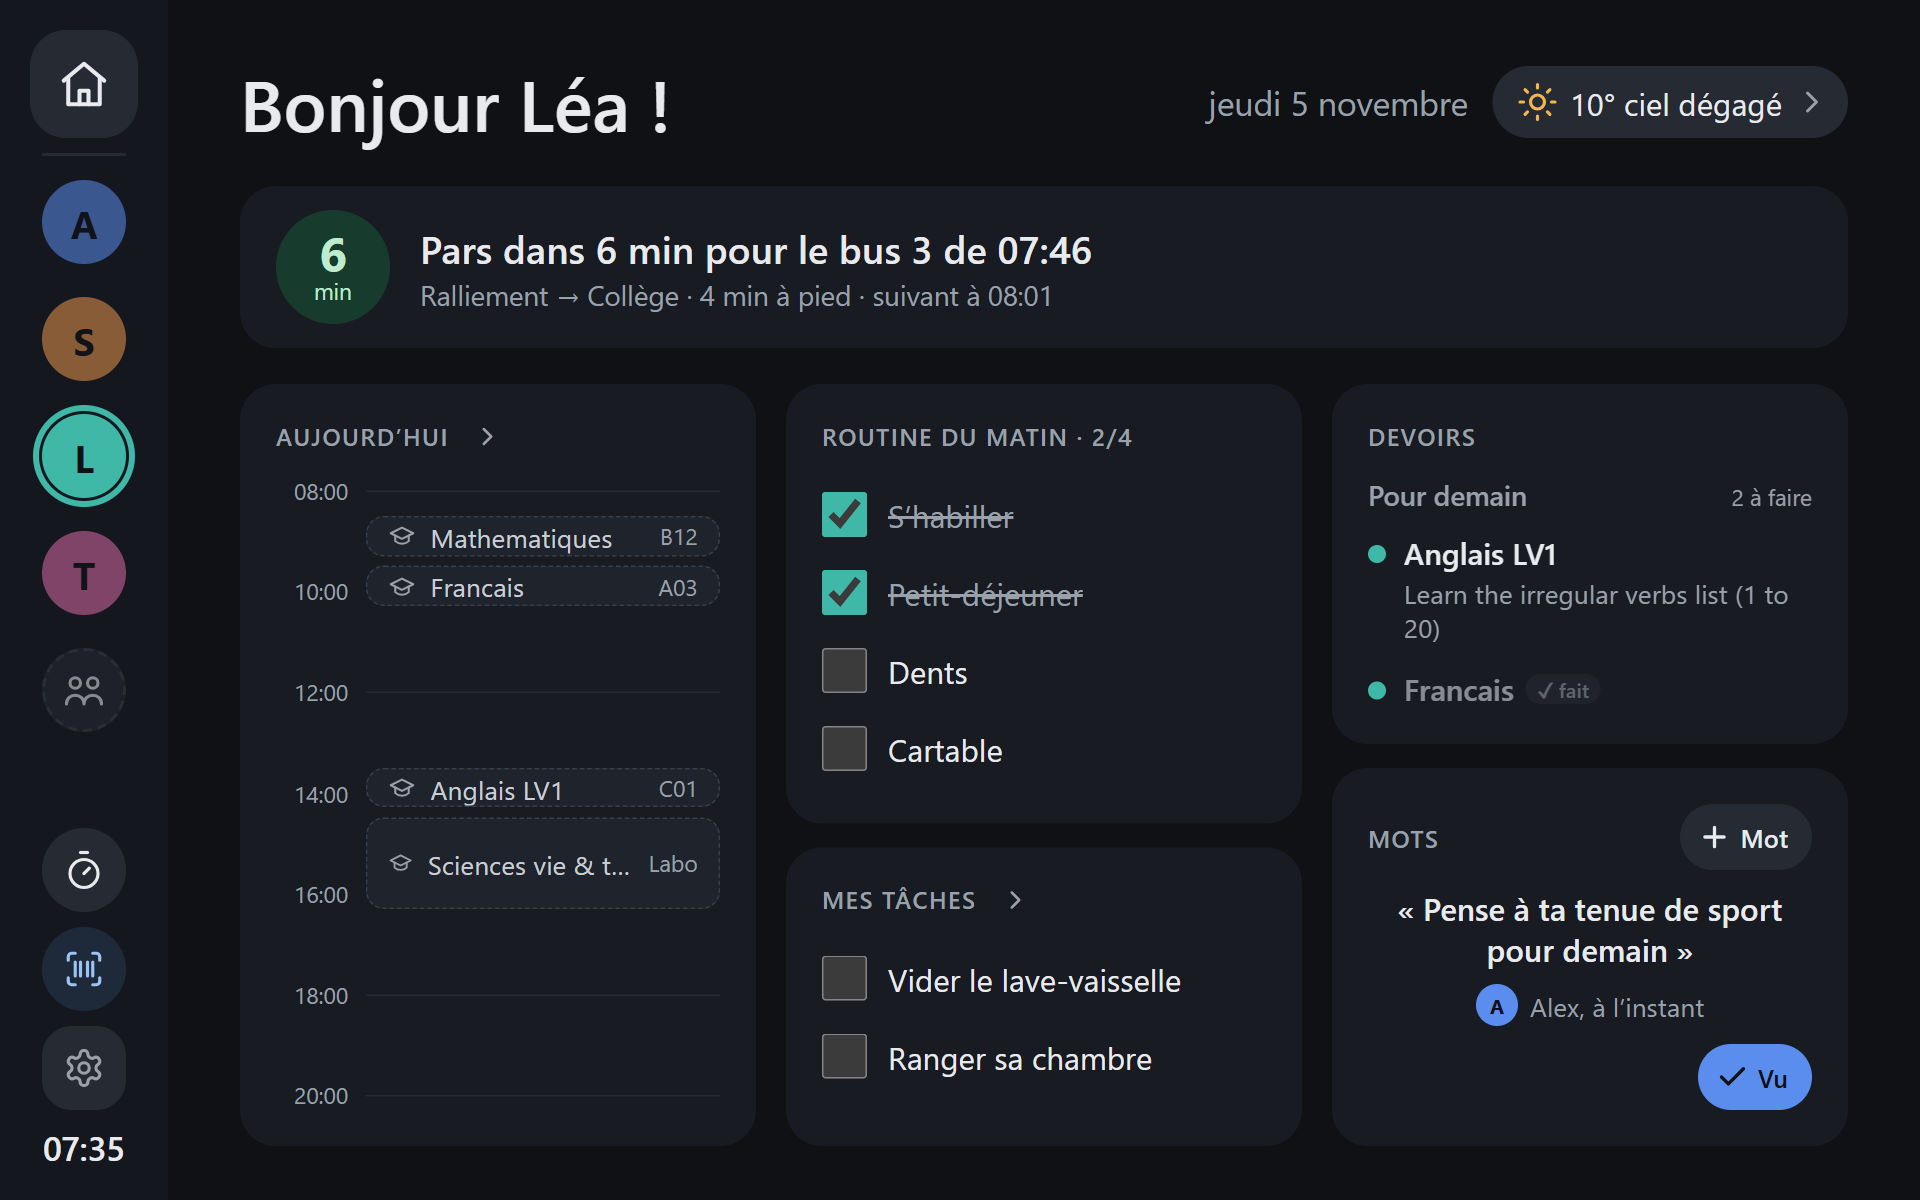
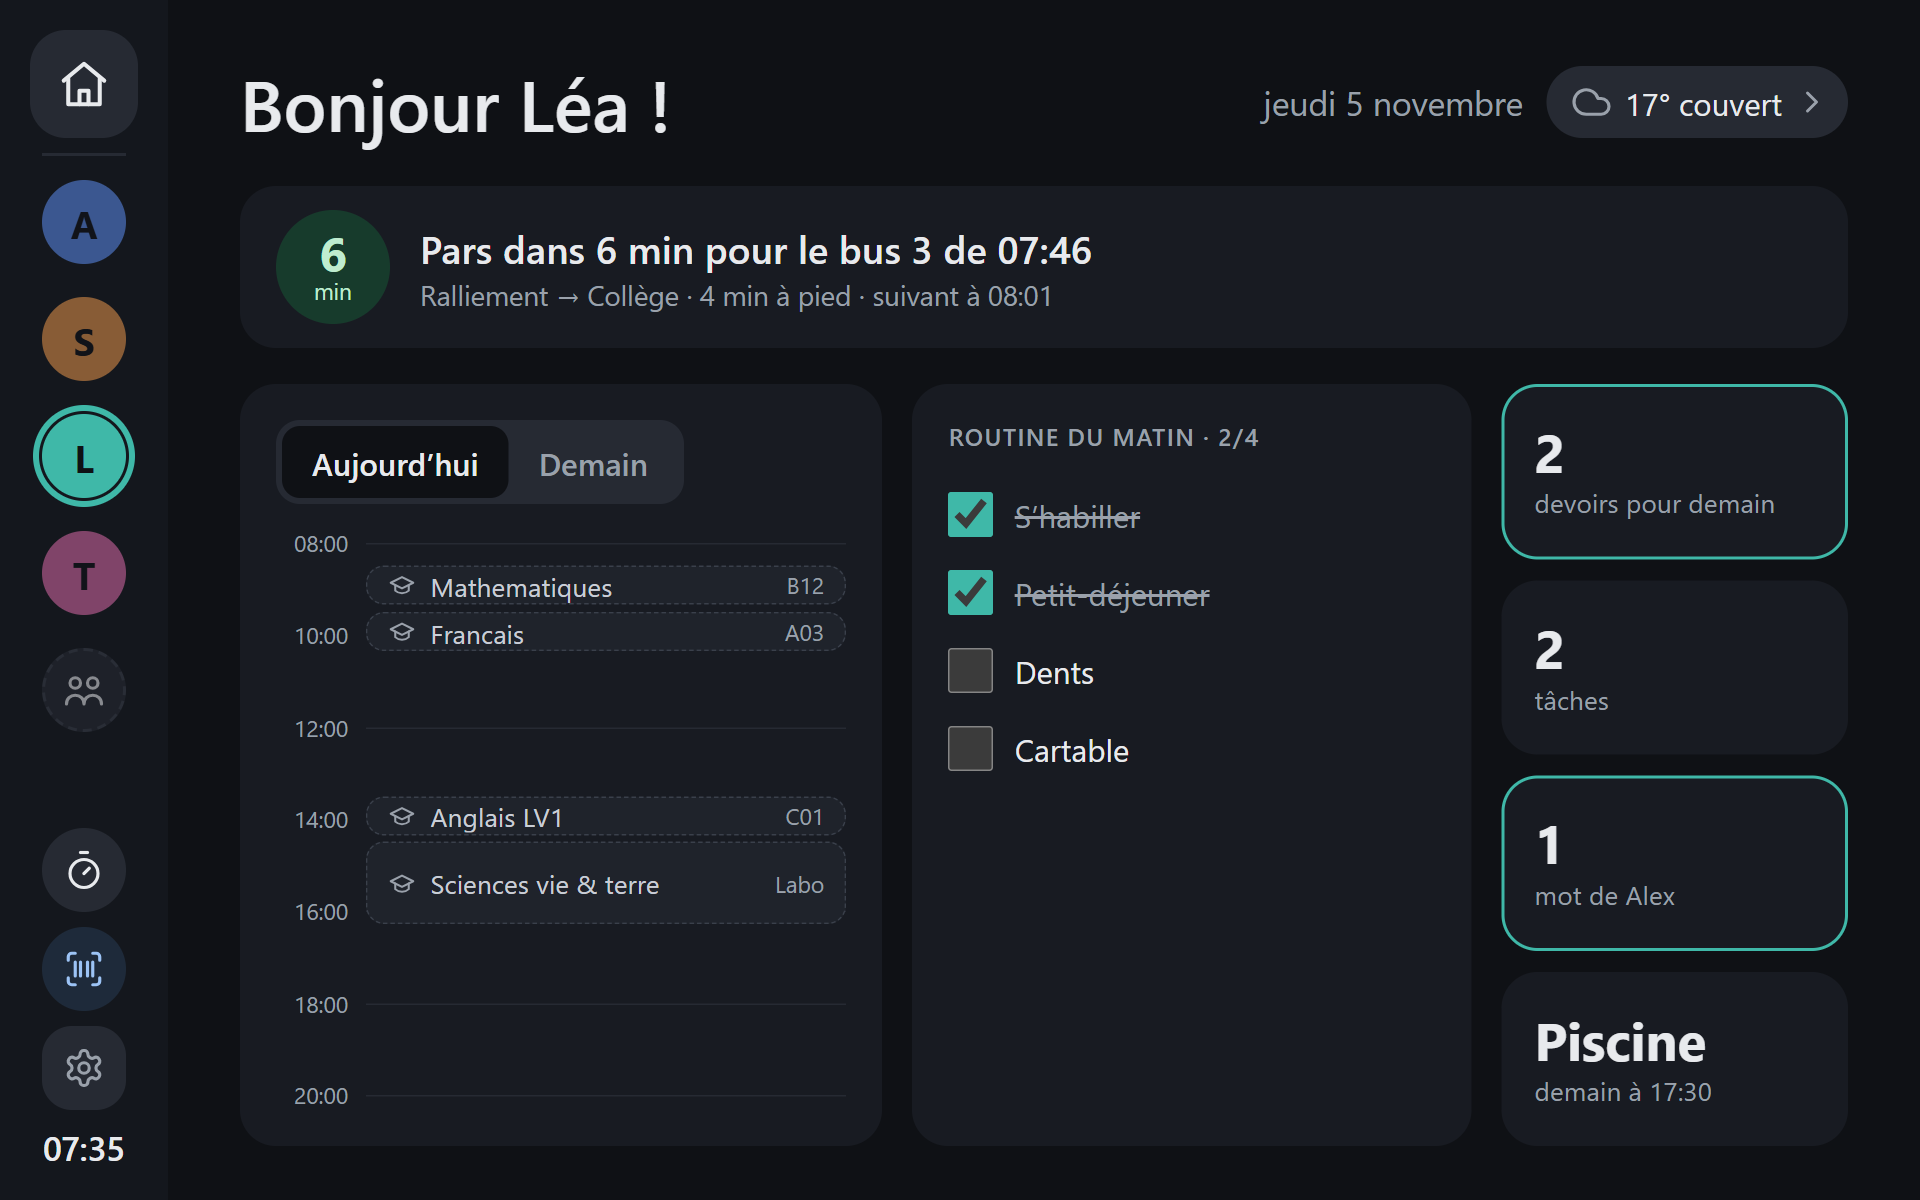
Dashboard élève : le focus seul, fin de l'essai
Décision de l'utilisateur : le dashboard « focus » devient le seul dashboard
d'un élève (profil avec emploi du temps), le classique est retiré.

- Dashboard.svelte : la variante classique (trois colonnes, frise du jour
  puis de demain à 18 h) et ses styles (.column, .fit, .fill) retirés.
- layout.svelte.ts (choix gardé par l'appareil) et l'entrée « Dashboard
  élève » de la roue dentée retirés. Une valeur déjà enregistrée sur la
  tablette n'est plus lue.
- Devenus morts avec le classique : eventsAfter (day.ts) et son test,
  l'option `compact` de NoteCard, `title` et `allDayRows` de DayTimeline
  (une seule frise : rien à aligner, l'en-tête remplace toujours le titre).
- Les dashboards des parents et de la famille ne changent pas.
- README, docs/design.md, docs/ecrans.md et la capture tablette-dashboard
  à jour.

diff --git a/web/src/screens/Dashboard.svelte b/web/src/screens/Dashboard.svelte
@@ -7,24 +7,19 @@
   import DetailLink from '../components/DetailLink.svelte';
   import FocusDashboard from '../components/FocusDashboard.svelte';
   import CommuteCard from '../components/widgets/CommuteCard.svelte';
-  import DayTimeline from '../components/widgets/DayTimeline.svelte';
   import HomeworkCard from '../components/widgets/HomeworkCard.svelte';
   import NextEventBanner from '../components/widgets/NextEventBanner.svelte';
   import NoteCard from '../components/widgets/NoteCard.svelte';
   import TaskList from '../components/widgets/TaskList.svelte';
   import UpcomingList from '../components/widgets/UpcomingList.svelte';
   import { getAppContext } from '../lib/context.ts';
-  import { addDays, dayPlan, eventsAfter, timelineHours } from '../lib/day.ts';
   import { formatLongDate, greeting } from '../lib/format.ts';
   import { createResource } from '../lib/resource.svelte.ts';
-  import { dashboardLayout } from '../lib/layout.svelte.ts';
   import { routineFooter, routineTitle } from '../lib/routine.ts';
   import { HOME_PATH } from '../lib/route.ts';
   import { formatTemperature, weatherIcon, weatherIconColor, weatherLabel } from '../lib/weather.ts';
 
   const DASHBOARD_REFRESH_MS = 60_000;
-  /** À partir de cette heure, la frise des élèves montre demain : la journée d'école est finie, on prépare le sac. */
-  const EVENING_HOUR = 18;
 
   // App.svelte recrée ce composant à chaque changement de profil ({#key}) : ownerId est fixe ici.
   type Props = { ownerId: string };
@@ -131,8 +126,8 @@
         {#if data.commute}
           <CommuteCard commute={data.commute} now={clock.now} />
         {/if}
-        {#if data.school && dashboardLayout.current === 'focus'}
-          <!-- Essai : dashboard « focus » (roue dentée › Dashboard élève). -->
+        {#if data.school}
+          <!-- Profil avec emploi du temps : dashboard « focus » (une frise, la carte du moment, le reste en tuiles). -->
           <FocusDashboard
             data={{ ...data, school: data.school }}
             {profile}
@@ -143,40 +138,6 @@
             onSeenNote={seeNote}
             onWriteNote={startNote}
           />
-        {:else if data.school}
-          <!-- Profil avec emploi du temps (piste A) : trois colonnes de hauteur fixe. La frise du jour (celle de demain
-               à partir de 18 h), la routine et les tâches, les devoirs et les mots. Chaque carte fait défiler son
-               contenu au lieu de pousser ses voisines. -->
-          {@const tomorrow = addDays(clock.now, 1)}
-          {@const evening = clock.now.getHours() >= EVENING_HOUR}
-          {@const shown = evening ? dayPlan(data.school.tomorrow, data.events, tomorrow) : dayPlan(data.school.today, data.events, clock.now)}
-          <div class="grid school">
-            <DayTimeline
-              title={evening ? 'Demain' : 'Aujourd’hui'}
-              day={evening ? tomorrow : clock.now}
-              plan={shown}
-              hours={timelineHours(shown.items)}
-              allDayRows={shown.allDay.length}
-              now={clock.now}
-              color={profile.color}
-            />
-            <div class="column">
-              {#if data.routine}
-                <div class="fit">{@render routine(data.routine)}</div>
-              {/if}
-              <div class="fill"><TaskList title="Mes tâches" tasks={data.tasks} color={profile.color} onToggle={toggleTask} /></div>
-            </div>
-            <div class="column">
-              <div class="fill">
-                {#if data.homework}
-                  <HomeworkCard homework={data.homework} now={clock.now} color={profile.color} />
-                {:else}
-                  <UpcomingList events={eventsAfter(data.events, tomorrow).slice(0, 4)} now={clock.now} />
-                {/if}
-              </div>
-              <div class="fit"><NoteCard notes={data.notes} {profiles} now={clock.now} compact onSeen={seeNote} onWrite={startNote} /></div>
-            </div>
-          </div>
         {:else}
           <NextEventBanner event={data.nextEvent} color={profile.color} now={clock.now} />
           <div class="grid">
@@ -266,36 +227,6 @@
     display: grid;
     grid-template-columns: repeat(3, minmax(0, 1fr));
     gap: 20px;
-  }
-
-  /* Colonnes de hauteur fixe : la carte « fit » prend sa hauteur, la carte « fill » le reste (160 px au moins) ;
-     quand la place manque, la carte « fit » rétrécit et fait défiler sa liste plutôt que de rogner sa voisine. */
-  .column {
-    min-height: 0;
-    display: flex;
-    flex-direction: column;
-    gap: var(--space-2);
-  }
-
-  .fit,
-  .fill {
-    display: flex;
-    flex-direction: column;
-    min-height: 0;
-  }
-
-  .fit {
-    flex: 0 1 auto;
-  }
-
-  .fill {
-    flex: 1 1 0;
-    min-height: 160px;
-  }
-
-  .fit > :global(.card),
-  .fill > :global(.card) {
-    flex: 1 1 auto;
   }
 
   .unknown {

diff --git a/web/src/components/widgets/DayTimeline.svelte b/web/src/components/widgets/DayTimeline.svelte
@@ -8,19 +8,16 @@
   import Icon from '../Icon.svelte';
 
   type Props = {
-    title: string;
     day: Date;
     plan: DayPlan;
-    /** Plage horaire, commune aux frises affichées côte à côte pour qu'elles s'alignent. */
+    /** Plage horaire de la frise. */
     hours: { startHour: number; endHour: number };
-    /** Lignes réservées aux événements sur la journée : les frises voisines restent alignées. */
-    allDayRows: number;
     now: Date;
     color: string;
-    /** En tête de carte, à la place du titre (bascule aujourd'hui / demain du dashboard focus). */
-    header?: Snippet;
+    /** En tête de carte, à la place d'un titre (bascule aujourd'hui / demain du dashboard). */
+    header: Snippet;
   };
-  let { title, day, plan, hours, allDayRows, now, color, header }: Props = $props();
+  let { day, plan, hours, now, color, header }: Props = $props();
 
   const accentBg = $derived(mix(color, '#0f1115', 0.3));
   const accentLight = $derived(mix(color, '#ffffff', 0.55));
@@ -37,9 +34,9 @@
   const nowVisible = $derived(isToday && now.getHours() >= hours.startHour && now.getHours() < hours.endHour);
 </script>
 
-<Card title={header ? undefined : title} link={{ to: 'week', label: 'Semaine détaillée' }}>
-  {#if header}{@render header()}{/if}
-  {#if allDayRows > 0}
+<Card link={{ to: 'week', label: 'Semaine détaillée' }}>
+  {@render header()}
+  {#if plan.allDay.length > 0}
     <ul class="all-day">
       {#each plan.allDay as event (event.id)}
         <li style:background={accentBg}>
@@ -47,9 +44,6 @@
           <span class="title">{event.title}</span>
           <span class="meta" style:color={accentLight}>{whenOnDay(event, day)}</span>
         </li>
-      {/each}
-      {#each { length: allDayRows - plan.allDay.length } as _, i (i)}
-        <li class="filler" aria-hidden="true"><Icon name="calendar" size={18} /><span>&nbsp;</span></li>
       {/each}
     </ul>
   {/if}
@@ -117,10 +111,6 @@
     padding: 8px 14px;
     border-radius: 12px;
     font-size: 1.1rem;
-  }
-
-  .filler {
-    visibility: hidden;
   }
 
   .timeline {

diff --git a/web/src/components/SettingsMenu.svelte b/web/src/components/SettingsMenu.svelte
@@ -1,7 +1,6 @@
 <script lang="ts">
   import { onDestroy } from 'svelte';
   import { getAppContext } from '../lib/context.ts';
-  import { dashboardLayout } from '../lib/layout.svelte.ts';
   import { createResource } from '../lib/resource.svelte.ts';
   import { type DetailName, detailPath } from '../lib/route.ts';
   import Icon from './Icon.svelte';
@@ -66,22 +65,6 @@
       <button type="button" role="menuitem" onclick={() => go('routines')}><Icon name="list" size={28} /> Routines</button>
       <button type="button" role="menuitem" onclick={() => go('transit')}><Icon name="bus" size={28} /> Transports</button>
       <button type="button" role="menuitem" onclick={() => go('nas')}><Icon name="server" size={28} /> État du NAS</button>
-      <!-- Essai du dashboard « focus » des élèves : bascule propre à cette tablette. -->
-      <button
-        type="button"
-        role="menuitemcheckbox"
-        aria-checked={dashboardLayout.current === 'focus'}
-        onclick={() => {
-          dashboardLayout.set(dashboardLayout.current === 'focus' ? 'classic' : 'focus');
-          position = null;
-        }}
-      >
-        <Icon name="school" size={28} />
-        <span class="choice">
-          Dashboard élève : {dashboardLayout.current === 'focus' ? 'focus' : 'classique'}
-          <span class="hint">toucher pour passer au {dashboardLayout.current === 'focus' ? 'classique' : 'focus'}</span>
-        </span>
-      </button>
       <div class="version">HomeHub v{__APP_VERSION__}</div>
     </div>
   {/if}
@@ -155,17 +138,6 @@
 
   .menu button:active {
     background: var(--border-strong);
-  }
-
-  .choice {
-    display: flex;
-    flex-direction: column;
-  }
-
-  .hint {
-    font-size: 0.95rem;
-    font-weight: 400;
-    color: var(--fg-muted);
   }
 
   .version {

diff --git a/web/src/components/widgets/NoteCard.svelte b/web/src/components/widgets/NoteCard.svelte
@@ -7,23 +7,21 @@
   import Icon from '../Icon.svelte';
 
   // Mots laissés au profil (ou à la famille) et pas encore vus : le plus récent, puis les suivants une fois « Vu ».
-  // `compact` : dans la colonne d'un profil qui a un emploi du temps.
   type Props = {
     notes: Note[];
     profiles: Profile[];
     now: Date;
-    compact?: boolean;
     onSeen(note: Note): void;
     onWrite(): void;
   };
-  let { notes, profiles, now, compact = false, onSeen, onWrite }: Props = $props();
+  let { notes, profiles, now, onSeen, onWrite }: Props = $props();
 
   const note = $derived(notes[0] ?? null);
   const author = $derived(profiles.find((p) => p.id === note?.from.ownerId));
 </script>
 
 <Card>
-  <div class="note" class:compact>
+  <div class="note">
     <div class="head">
       <span class="card-label">Mots</span>
       <button type="button" class="write" aria-label="Laisser un mot" onclick={onWrite}>
@@ -103,10 +101,6 @@
     font-size: 1.6rem;
     font-weight: 600;
     overflow-wrap: anywhere;
-  }
-
-  .compact .text {
-    font-size: 1.3rem;
   }
 
   .author {

diff --git a/web/src/lib/day.test.ts b/web/src/lib/day.test.ts
@@ -1,6 +1,6 @@
 import { describe, expect, it } from 'vitest';
 import type { CalendarEvent } from '../../../shared/types.ts';
-import { dayPlan, eventsAfter, eventsOnDay, fitsInDay, timelineHours, timelineItems, timelinePercent, whenOnDay } from './day.ts';
+import { dayPlan, eventsOnDay, fitsInDay, timelineHours, timelineItems, timelinePercent, whenOnDay } from './day.ts';
 
 const at = (day: number, hour = 0, minute = 0) => new Date(2026, 10, day, hour, minute);
 const ev = (id: string, start: Date, end?: Date, allDay = false): CalendarEvent => ({
@@ -22,7 +22,6 @@ describe('découpage par jour', () => {
     const events = [foot, trip, birthday, later];
     expect(eventsOnDay(events, today).map((e) => e.id)).toEqual(['foot', 'voyage']);
     expect(eventsOnDay(events, at(3)).map((e) => e.id)).toEqual(['voyage', 'anniversaire']);
-    expect(eventsAfter(events, at(3)).map((e) => e.id)).toEqual(['plus-tard']);
   });
 
   it('ne met sur la frise que les événements avec heure contenus dans le jour', () => {

diff --git a/web/src/lib/day.ts b/web/src/lib/day.ts
@@ -36,10 +36,6 @@ export function fitsInDay(event: CalendarEvent, day: Date): boolean {
   return !event.allDay && new Date(event.start) >= from && endOf(event) <= to;
 }
 
-/** Événements qui commencent après la fin de `day` (pour « Cette semaine », après demain). */
-export const eventsAfter = (events: CalendarEvent[], day: Date) =>
-  events.filter((e) => new Date(e.start) >= addDays(startOfDay(day), 1));
-
 export type TimelineItem = {
   id: string;
   kind: 'course' | 'event';

diff --git a/web/src/components/FocusDashboard.svelte b/web/src/components/FocusDashboard.svelte
@@ -94,11 +94,9 @@
 
 <div class="focus" style:--accent={profile.color}>
   <DayTimeline
-    title={shown === 'today' ? 'Aujourd’hui' : 'Demain'}
     day={shown === 'today' ? now : tomorrow}
     {plan}
     hours={timelineHours(plan.items)}
-    allDayRows={plan.allDay.length}
     {now}
     color={profile.color}
     header={switcher}

diff --git a/README.md b/README.md
@@ -118,13 +118,11 @@ Captures, diagrammes d'architecture et design : [docs/](docs/README.md).
   jours), monter ou descendre, supprimer ; « Nouvelle étape » ; heures en semaine et, au besoin, le week-end. Tout le
   monde peut regarder ; seul un parent reconnu (ou un téléphone de parent) enregistre (`routine-plans.json`). Chaque
   étape garde un identifiant : la renommer ou la déplacer ne perd ni ses cases du jour ni les jours de suite.
-- **Dashboard « focus »** d'un élève (essai, à activer sur la tablette : roue dentée › Dashboard élève) : une seule
-  frise avec la bascule « Aujourd'hui | Demain » (demain d'office une fois la journée de cours finie), la carte du
+- **Dashboard d'un élève** (profil avec emploi du temps), dit « focus » : une seule frise avec la bascule « Aujourd'hui | Demain » (demain d'office une fois la journée de cours finie), la carte du
   moment en grand (routine du matin ; après l'école, les devoirs qui restent jusqu'à 19 h ; puis la routine du soir ;
   sinon les rendez-vous), et le reste en tuiles (devoirs, routine, tâches, mots, prochain rendez-vous) : un chiffre
   et un mot, bordées de la couleur du profil quand il y a du nouveau (mot, devoirs pour demain). Une tuile ouvre sa
-  carte complète dans un panneau, refermé d'un toucher à côté ou seul après 30 s. Le choix est gardé par l'appareil ;
-  le dashboard classique reste celui par défaut.
+  carte complète dans un panneau, refermé d'un toucher à côté ou seul après 30 s.
 - **Devoirs** (élève avec ÉcoleDirecte ou Pronote) : carte « Devoirs » sur son dashboard, à la place de « À venir » :
   par jour (« Pour demain », « Pour lundi » ; ceux du jour le matin seulement), matière, consigne (toucher pour la
   lire en entier), « Contrôle » quand ÉcoleDirecte l'annonce, pièces jointes et durée prévue s'il y en a. Aussi dans
@@ -194,8 +192,8 @@ secrets : le YAML ne contient que le nom de la variable d'environnement qui les 
 configuré, l'agenda affiche des exemples.
 
 L'**emploi du temps** vient d'ÉcoleDirecte (API privée du site, non officielle : elle peut changer), rafraîchi
-toutes les 60 min. Un profil avec `ecoledirecte: <prénom de l'élève>` affiche une frise du jour (cours en gris,
-agenda à sa couleur) et une carte « Demain ». La connexion demande, la première fois, de répondre à une question
+toutes les 60 min. Un profil avec `ecoledirecte: <prénom de l'élève>` affiche une frise du jour ou de demain (cours en
+gris, agenda à sa couleur). La connexion demande, la première fois, de répondre à une question
 de sécurité : `node scripts/ecoledirecte-pair.ts [prénom]` le fait sur un PC et affiche les variables
 `ECOLEDIRECTE_IDENTIFIANT`, `ECOLEDIRECTE_MOTDEPASSE`, `ECOLEDIRECTE_CN`, `ECOLEDIRECTE_CV` à mettre dans
 l'environnement.

diff --git a/docs/design.md b/docs/design.md
@@ -54,8 +54,8 @@ restent ; les espacements, les tailles de texte et les cartes deviennent des rè
   Scanner ressort en bleu.
 - **Bus sur l'accueil** : une ligne par arrêt, une pastille par ligne et destination avec le prochain passage et un
   point vert pour le temps réel.
-- **Dashboard élève** : trois colonnes de même largeur (frise du jour, puis de demain à partir de 18 h ; routine et
-  tâches ; devoirs et mots).
+- **Dashboard élève** (« focus ») : une frise (aujourd'hui ou demain), la carte du moment en grand, le reste en tuiles
+  qui ouvrent leur carte dans un panneau.
 
 ## Écrans
 

diff --git a/docs/ecrans.md b/docs/ecrans.md
@@ -24,7 +24,8 @@ avec le prochain rendez-vous et les mots non lus de chacun. En bas, un minuteur 
 
 ### Dashboard d'un élève
 
-Bandeau du trajet du matin, frises du jour et du lendemain (cours, agenda), routine du moment, tâches et mots.
+Bandeau du trajet du matin, frise du jour avec la bascule « Aujourd'hui | Demain » (cours, agenda), la carte du
+moment en grand (ici la routine du matin) et le reste en tuiles : devoirs, tâches, mots, prochain rendez-vous.
 
 ![Dashboard de Léa](images/tablette-dashboard.png)
 
